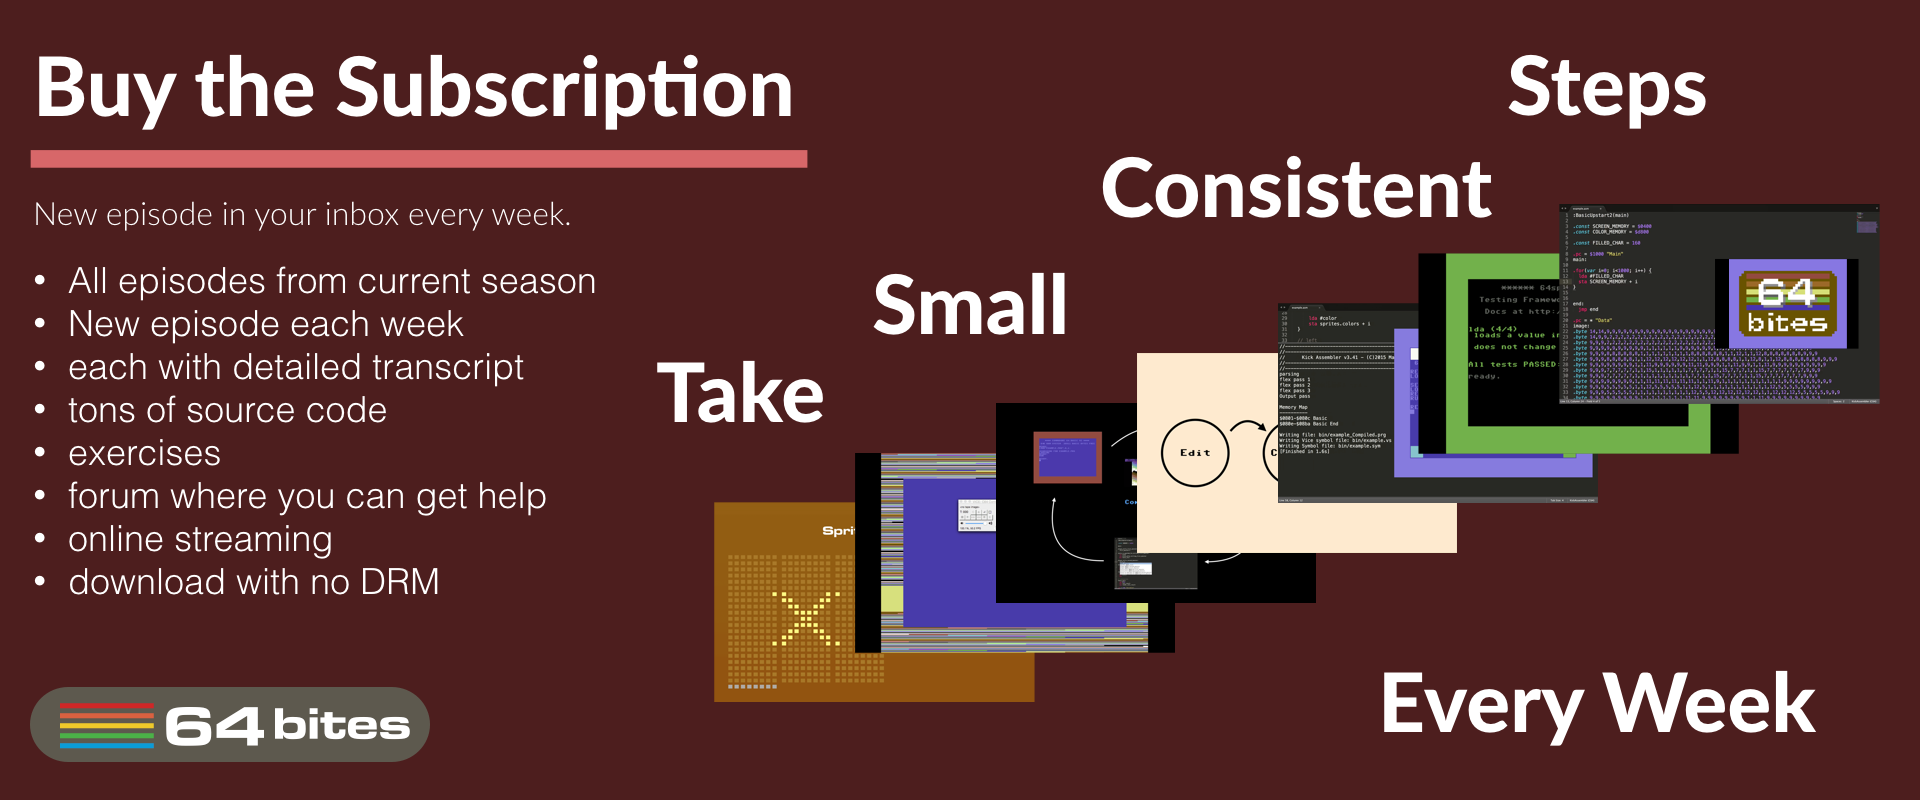
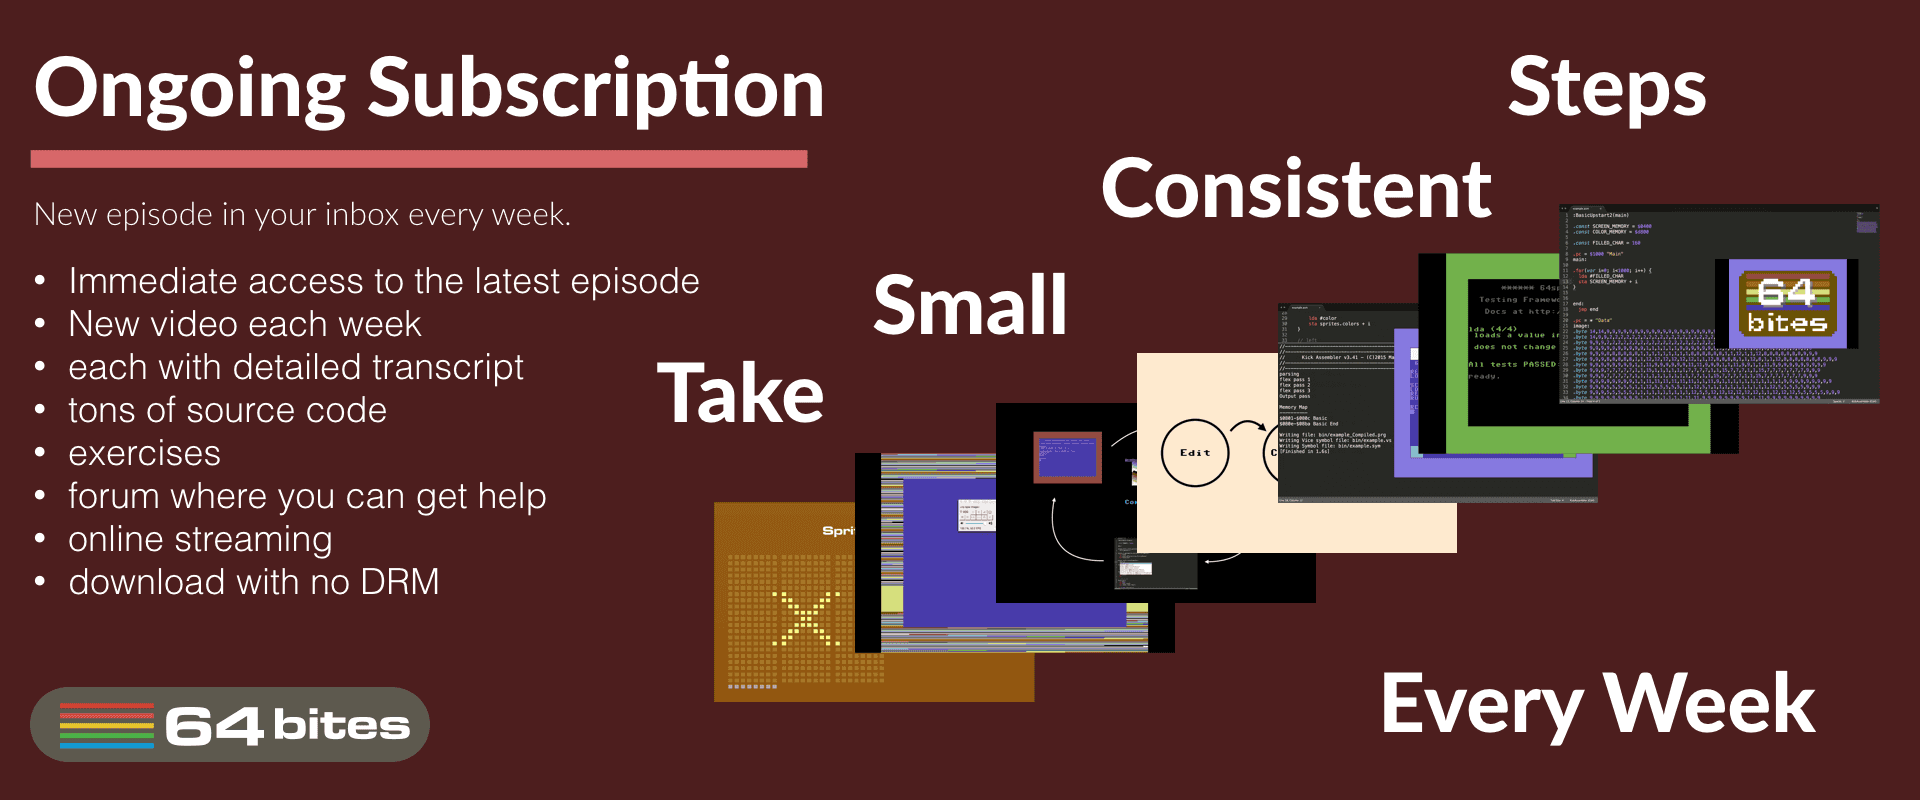
Update subscription poster and add buy button to episodes index

Changed region(s): [[0.0, 0.0625, 0.4375, 0.1875], [0.0312, 0.3438, 0.375, 0.4375], [0.0312, 0.875, 0.0938, 0.9062]]

diff --git a/source/assets/stylesheets/_global.scss b/source/assets/stylesheets/_global.scss
@@ -327,25 +327,53 @@ section.latest-episode, section.pricing-tiers {
   /*}*/
 }
 .episodes, .latest-episode {
- & > .episode, & .w > .episode {
-  @include outer-container;
-  .poster {
-    position: relative;
-    @include span-columns(3.9);
-    .play-icon {
-      position: absolute;
-      top: 0;
-      left: 0;
-      width: 100%;
-      opacity: 0.8;
-      transition: opacity 0.5s ease;
+  & > .episode, & .w > .episode {
+    @include outer-container;
+    padding: 1em 0;
+    .poster {
+      position: relative;
+      @include span-columns(3.9);
+      .play-icon {
+        position: absolute;
+        top: 0;
+        left: 0;
+        width: 100%;
+        opacity: 0.8;
+        transition: opacity 0.5s ease;
+      }
+    }
+
+    .info {
+      @include span-columns(8);
     }
   }
-
-  .info {
-    @include span-columns(8);
-  }
 }
+.episodes > .episode {
+  a.button {
+    display: block;
+    margin: 0 auto;
+    transition: all 0.3s;
+  }
+
+  &.paid {
+    a.button {
+
+      background-color: #3DA736;
+      &:hover, &:focus {
+        background-color: lighten(#3DA736, 10%);
+      }
+    }
+  }
+  &.free {
+    /*#229BE5, #1F84C3*/
+    a.button {
+
+      background-color: #1F84C3;
+      &:hover, &:focus {
+        background-color: lighten(#1F84C3, 10%);
+      }
+    }
+  }
 }
 .bubble 
 {
@@ -598,12 +626,12 @@ abbr { cursor: help; }
 }
 
 .ribbon-paid {
-  background-color: #E2804D;
-  background-image: -webkit-gradient(linear, left top, left bottom, from(#E2804D), to(#CE703F)); 
-  background-image: -webkit-linear-gradient(top, #E2804D, #CE703F); 
-  background-image:    -moz-linear-gradient(top, #E2804D, #CE703F); 
-  background-image:     -ms-linear-gradient(top, #E2804D, #CE703F); 
-  background-image:      -o-linear-gradient(top, #E2804D, #CE703F); 
+  background-color: #3DA736;
+  background-image: -webkit-gradient(linear, left top, left bottom, from(#3DA736), to(#33992C)); 
+  background-image: -webkit-linear-gradient(top, #3DA736, #33992C); 
+  background-image:    -moz-linear-gradient(top, #3DA736, #33992C); 
+  background-image:     -ms-linear-gradient(top, #3DA736, #33992C); 
+  background-image:      -o-linear-gradient(top, #3DA736, #33992C); 
   color: #DDF2FF;
 }
 
